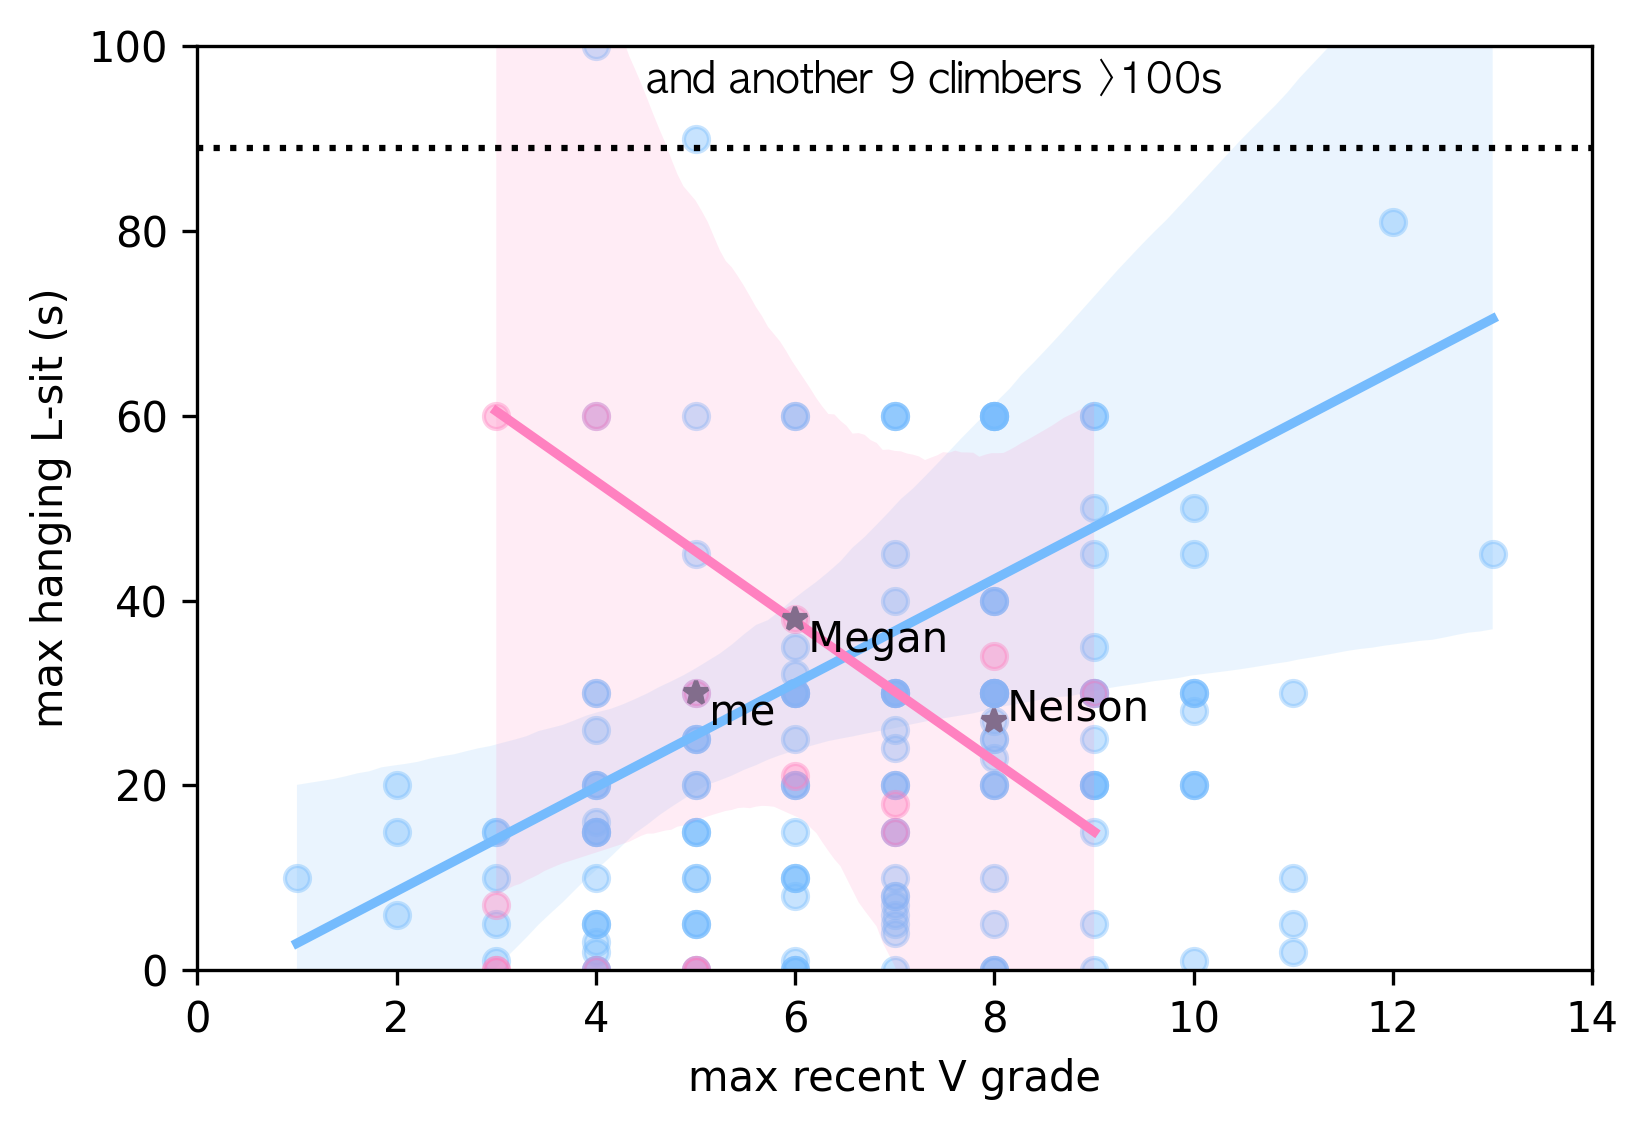
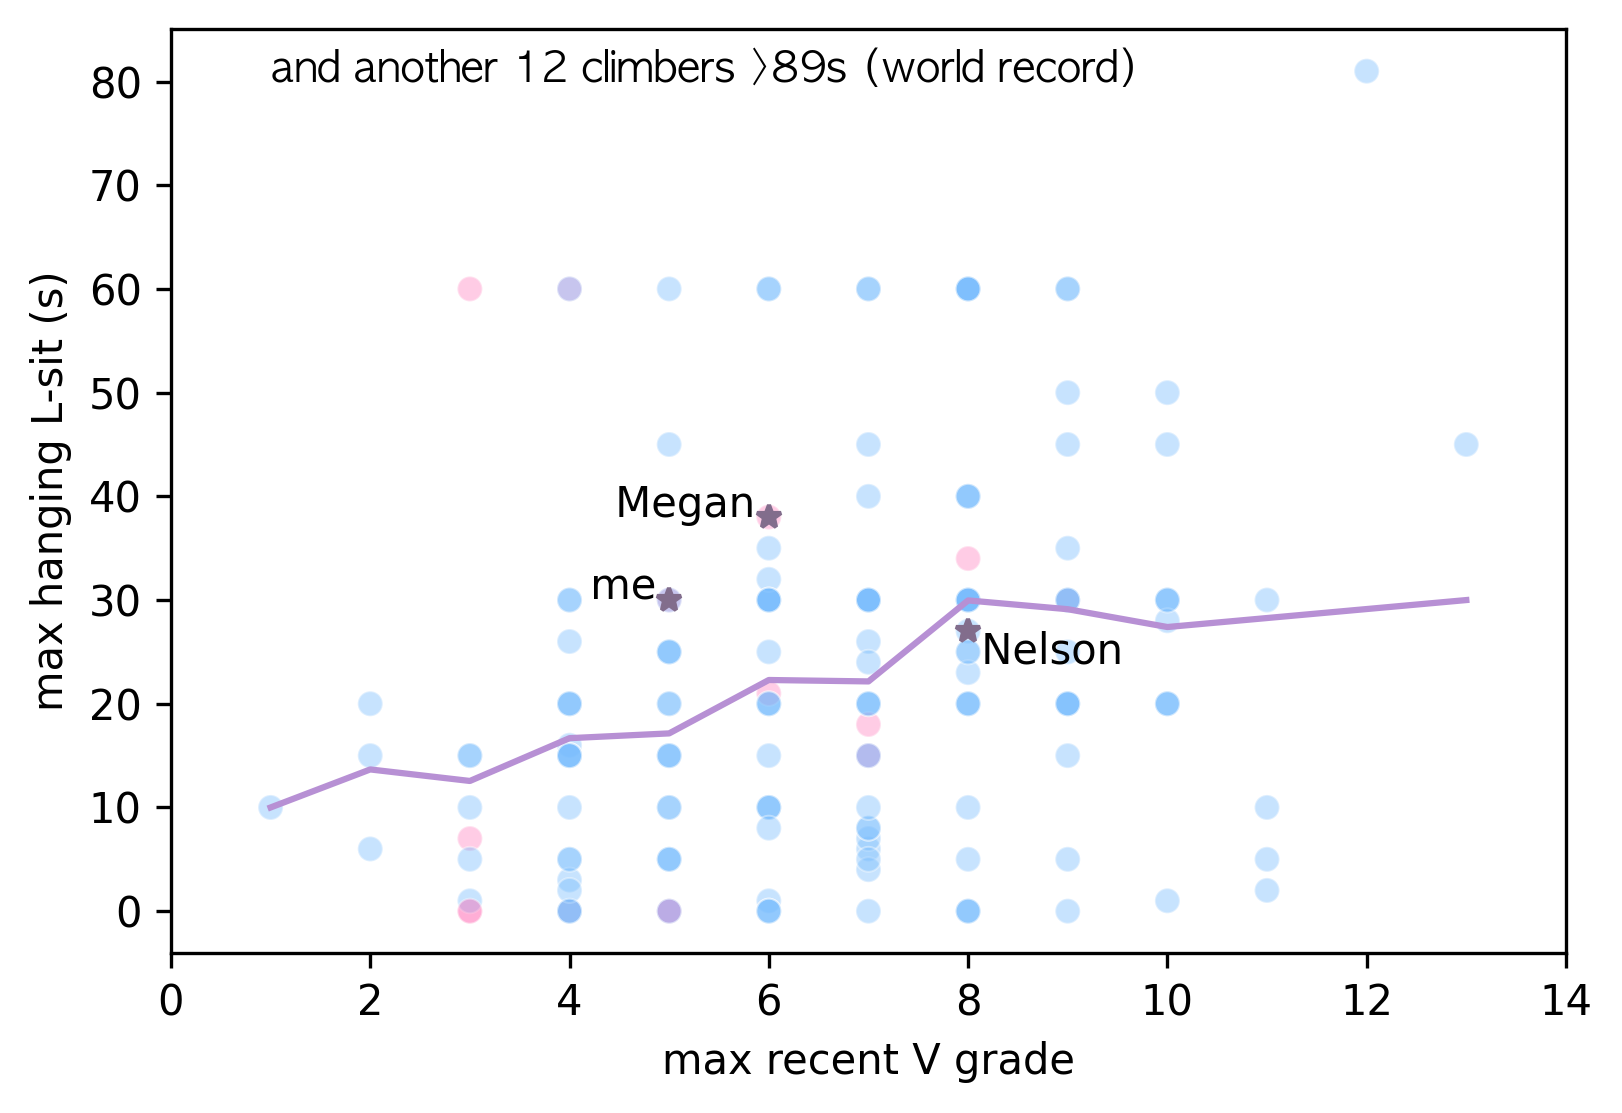
updated 2nd round of edits

diff --git a/_posts/2021-10-31-how-hard-do-you-climb.md b/_posts/2021-10-31-how-hard-do-you-climb.md
@@ -317,7 +317,7 @@ I’ll plot these metrics and, like before, click through the carousel to see th
       </div>
       <div class="item">
         <img src="{{ "/assets/images/climbing/lsit.png" | relative_url }}">
-        <p class="caption">A further 9 climbers are cut off; L-sit times went as high as 10min including one female V3 climber who held for nearly <abbr class="float-notes" title="Just hanging from the bar that long is 9/10 points for endurance on the 9c test. 10min is off the charts!">5min</abbr>!</p>
+        <p class="caption">Self-reported L-sit times went as high as 2h46m; 12 in total exceeded the (Guiness Book) world record of 1m29s. Less than 25% reported. Be suspicious of conclusions based on it.</p>
       </div>
     </div>
     <a class="carousel-control left" href="#carousel_strengths" data-slide="prev">
@@ -357,16 +357,18 @@ What about differences in strength metrics: how should the two grips compare for
 
 ## Bouldering Predictions
 
-With a dataset of nearly 600 climbers, I could train <abbr class="float-notes" title="Several in fact, of various kinds: I started with linear regression, went to 2-4 layer dense neural networks before finally trying on random forests then boosted trees (which, of course, are usually best for this kind of tabular data). I trained many of each kind and settled on the model type that gave the most consistent feature importance estimates.">a model</abbr> to predict the hardest V grade each climber had reached given their strength metrics and training habits. Shockingly, the model was better than expected with some regression to the mean (that is, low V grade climbers were predicted high, while high V grade climbers were predicted low) with typical errors ~1-2 V grades. 
+With a dataset of nearly 600 climbers, I could train <abbr class="float-notes" title="Several in fact, of various kinds: I started with linear regression, went to 2-4 layer dense neural networks before finally trying on random forests then boosted trees (which, of course, are usually best for this kind of tabular data). I trained many of each kind and settled on the model type that gave the most consistent feature importance estimates.">a model</abbr> to predict the hardest V grade each climber had reached given their strength metrics and training habits. Shockingly, the model was better than expected, although with mild regression to the mean (that is, low V grade climbers were predicted high, while high V grade climbers were predicted low): typical errors were <2 V grades. 
 
-In predicting each of the reported bouldering grades, the model can be assessed for how important it found each feature of the climber. In nearly every model I trained for every grade, the most important feature is number of years climbed. After all: 
+In predicting each of the reported bouldering grades, the model can be assessed for how important it found each feature of the climber. In nearly every model I trained for every grade, the most important feature is number of years climbed. Next is the related # hours climbing per week. After all: 
 
 >   Climbing is the best training for climbing
+
+The most important strength metric was nearly always half crimp strength. Even though the next most touted "widsom", it's still a little surprising with this dataset: <abbr class="float-notes" title="Compare with: weighted open hand hangs ## %, weighted 5-rep pull-ups ##%, L-sit time ## %, # of pull-ups ## %; # of push-ups ## %; ## % hangboard; ## % campus board; ## % that train non-specifically">only 35%</abbr> of climbers reported weighted half crimp hangs. 
 
 Strangely, the number of pull-ups often appeared more important than the actual pull-up strength. Surely in bouldering, number of pull-ups is more of an endurance feat while 5-rep max weight is a measure of strength endurance (single rep max weighted pull-ups would better assess pure strength). If most boulders feature 5 moves, this should be the most important (pull-up) feature. The reason I think they come reversed is that 3/4 of climbers reported number of pull-ups while less than half reported weighted ones: there's just more information in the former for the model to learn from.
 That said, it's astonishing that half crimp strength was the most common second most used feature when only 35% of climbers reported it!
 
-<img src="{{ "/assets/images/climbing/feats_max_recent.png" | relative_url }}">
+<img src="{{ "/assets/images/climbing/feat_imp.png" | relative_url }}">
 
 <p class="caption">As found by the model, the most important aspect of a climber to guess their highest V grade is how long they’ve been climbing! BMI is next in importance: the predicted grade only increases for climbers with BMI &le; 19; Megan, Nelson and my predictions all go up if we increase out BMI by 0.5 (not by much though). Next we see hours climbing, max pull up reps and half crimp strength. This is <a href="https://christophm.github.io/interpretable-ml-book/feature-importance.html">permutation importance</a> so the score is the (normalized) increase in mean squared error over all climbers (the 30 held out climbers included) when each feature is random shuffled.</p>
 
@@ -374,19 +376,19 @@ That said, it's astonishing that half crimp strength was the most common second 
 <div id="carousel_preds" class="carousel slide">
     <div class="carousel-inner">
       <div class="item active">
-        <img src="{{ "/assets/images/climbing/pred_max_recent.png" | relative_url }}" >
+        <img src="{{ "/assets/images/climbing/pred.png" | relative_url }}" >
         <p class="caption">This (<a href="https://lightgbm.readthedocs.io/en/latest/">lightgbm</a>) model was trained holding out a random 30 climbers (in green) including Megan, Nelson and I: that the test climbers are predicted as well as the others is a sign the model trained well. The slight bias to predict high for lower V grade climbers and low for higher V grade climbers (known as regressing to the mean) isn't too surprising since there is a lot of missing data (unmeasured weighted hangs for instance). Megan, Nelson and I are very well predicted; reassuring since the model had all our strength metrics.</p>
       </div>
       <div class="item">
-        <img src="{{ "/assets/images/climbing/del_y_max_recent.png" | relative_url }}" >
+        <img src="{{ "/assets/images/climbing/del_y.png" | relative_url }}" >
         <p class="caption">Change no habits, even if continuing various kinds of training, if you get no stronger and just climb another year and you’ll improve by 0.5 to 1.5 V grades in your first 5 years.</p>
       </div>
       <div class="item">
-        <img src="{{ "/assets/images/climbing/del_s_max_recent.png" | relative_url }}" >
+        <img src="{{ "/assets/images/climbing/del_s.png" | relative_url }}" >
         <p class="caption">The predicted grade shift for increased strength metrics all follow a similar pattern: there are no gains (and sometimes expected losses!) for increasing strength at the lowest levels. I interpret this as the usual advice from trainers and climbers alike: to improve at climbing, at first, focus on climbing. You will naturally get stronger. Once a minimal strength is reached (10s hangs on a 20mm edge, 5 pull-ups, 10 push-ups, 5s hanging L-sit) then increasing them further yields greater gains. Once a certain strength is reached however, the gains saturate. The data sets the upper limits at hangs with body weight added, 5-rep pull-ups with less than half body weight added, 20 pull-ups, 30 push-ups, 30s of hanging L-sit. Note that this dataset is realistic limited to climbing up to V10 (very few climbers climbed harder); but <a href="https://www.instagram.com/p/B9zNGplJMyG/" target="__blank">Lattice Training reports</a> less than that finger strength for bouldering V15!</p>
       </div>
       <div class="item">
-        <img src="{{ "/assets/images/climbing/del_s2_max_recent.png" | relative_url }}" >
+        <img src="{{ "/assets/images/climbing/del_s2.png" | relative_url }}" >
         <p class="caption">The predicted grade shift for increased strength metrics all follow a similar pattern: there are no gains (and sometimes expected losses!) for increasing strength at the lowest levels. I interpret this as the usual advice from trainers and climbers alike: to improve at climbing, at first, focus on climbing. You will naturally get stronger. Once a minimal strength is reached (10s hangs on a 20mm edge, 5 pull-ups, 10 push-ups, 5s hanging L-sit) then increasing them further yields greater gains. Once a certain strength is reached however, the gains saturate. The data sets the upper limits at hangs with body weight added, 5-rep pull-ups with less than half body weight added, 20 pull-ups, 30 push-ups, 30s of hanging L-sit. Note that this dataset is realistic limited to climbing up to V10 (very few climbers climbed harder); but <a href="https://www.instagram.com/p/B9zNGplJMyG/" target="__blank">Lattice Training reports</a> less than that finger strength for bouldering V15!</p>
       </div>
     </div>
